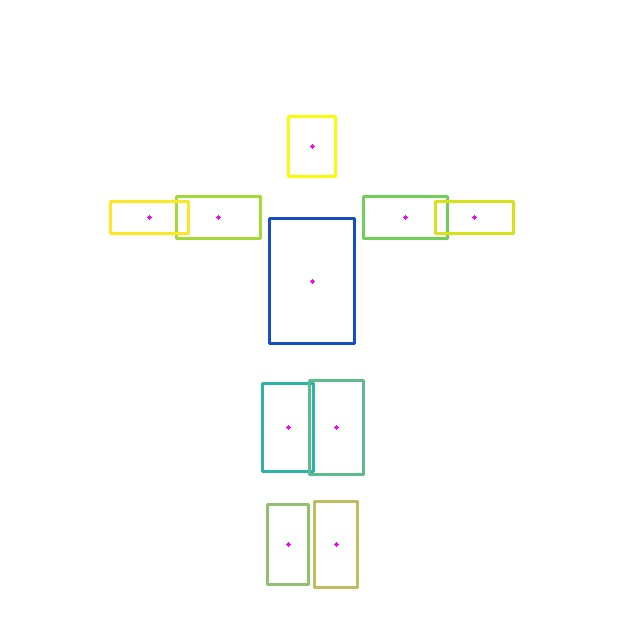
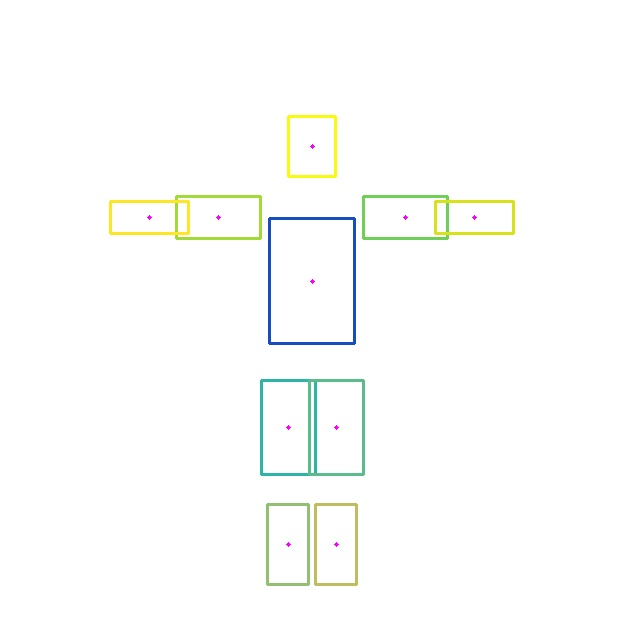
update

Changed region(s): [[0.3958, 0.5785, 0.5176, 0.7612], [0.4872, 0.7917, 0.5785, 0.9439]]

diff --git a/visualize_contour_on_pose.py b/visualize_contour_on_pose.py
@@ -61,19 +61,34 @@ def _get_midpoints(infile, densepose_idx, keypoints):
     midpoints['Head'] = np.array([head_centroid_x, head_centroid_y])
 
     # torso midpoint
-    midpoints['Torso'] = (keypoints['Neck'] + keypoints['MidHip']) / 2
+    if np.all(keypoints['Neck'] != 0) and np.all(keypoints['MidHip'] != 0):
+        midpoints['Torso'] = (keypoints['Neck'] + keypoints['MidHip']) / 2
 
     # upper limbs
-    midpoints['RUpperArm'] = (keypoints['RShoulder'] + keypoints['RElbow']) / 2
-    midpoints['RLowerArm'] = (keypoints['RElbow'] + keypoints['RWrist']) / 2
-    midpoints['LUpperArm'] = (keypoints['LShoulder'] + keypoints['LElbow']) / 2
-    midpoints['LLowerArm'] = (keypoints['LElbow'] + keypoints['LWrist']) / 2
+    if np.all(keypoints['RShoulder'] != 0) and np.all(keypoints['RElbow'] != 0):
+       midpoints['RUpperArm'] = (keypoints['RShoulder'] + keypoints['RElbow']) / 2
+
+    if np.all(keypoints['RElbow'] != 0) and np.all(keypoints['RWrist'] != 0):
+        midpoints['RLowerArm'] = (keypoints['RElbow'] + keypoints['RWrist']) / 2
+
+    if np.all(keypoints['LShoulder'] != 0) and np.all(keypoints['LElbow'] != 0):
+        midpoints['LUpperArm'] = (keypoints['LShoulder'] + keypoints['LElbow']) / 2
+
+    if np.all(keypoints['LElbow'] != 0) and np.all(keypoints['LWrist'] != 0):
+        midpoints['LLowerArm'] = (keypoints['LElbow'] + keypoints['LWrist']) / 2
 
     # lower limbs
-    midpoints['RThigh'] = (keypoints['RHip'] + keypoints['RKnee']) / 2
-    midpoints['RCalf'] = (keypoints['RKnee'] + keypoints['RAnkle']) / 2
-    midpoints['LThigh'] = (keypoints['LHip'] + keypoints['LKnee']) / 2
-    midpoints['LCalf'] = (keypoints['LKnee'] + keypoints['LAnkle']) / 2
+    if np.all(keypoints['RHip'] != 0) and np.all(keypoints['RKnee'] != 0):
+        midpoints['RThigh'] = (keypoints['RHip'] + keypoints['RKnee']) / 2
+
+    if np.all(keypoints['RKnee'] != 0) and np.all(keypoints['RAnkle'] != 0):
+        midpoints['RCalf'] = (keypoints['RKnee'] + keypoints['RAnkle']) / 2
+
+    if np.all(keypoints['LHip'] != 0) and np.all(keypoints['LKnee'] != 0):
+        midpoints['LThigh'] = (keypoints['LHip'] + keypoints['LKnee']) / 2
+
+    if np.all(keypoints['LKnee'] != 0) and np.all(keypoints['LAnkle'] != 0):
+        midpoints['LCalf'] = (keypoints['LKnee'] + keypoints['LAnkle']) / 2
 
     return midpoints
 
@@ -136,78 +151,88 @@ def _draw_norm_segm(image, midpoints, rotated_angles, dict_norm_segm):
     scaler = 1 / dict_norm_segm['scaler']
 
     # head
-    rect = ((midpoints['Head'][0], midpoints['Head'][1]),
-            (dict_norm_segm['Head_w'] * scaler, dict_norm_segm['Head_h'] * scaler),
-            rotated_angles['Head'])
-    box = cv2.boxPoints(rect)  # cv2.boxPoints(rect) for OpenCV 3.x
-    box = np.int0(box)
-    cv2.drawContours(image, [box], 0, color=COARSE_TO_COLOR['Head'], thickness=thickness)
+    if 'Head' in midpoints.keys():
+        rect = ((midpoints['Head'][0], midpoints['Head'][1]),
+                (dict_norm_segm['Head_w'] * scaler, dict_norm_segm['Head_h'] * scaler),
+                rotated_angles['Head'])
+        box = cv2.boxPoints(rect)  # cv2.boxPoints(rect) for OpenCV 3.x
+        box = np.int0(box)
+        cv2.drawContours(image, [box], 0, color=COARSE_TO_COLOR['Head'], thickness=thickness)
 
     # torso
-    rect = ((midpoints['Torso'][0], midpoints['Torso'][1]),
-            (dict_norm_segm['Torso_w'] * scaler, dict_norm_segm['Torso_h'] * scaler),
-            rotated_angles['Torso'])
-    box = cv2.boxPoints(rect)  # cv2.boxPoints(rect) for OpenCV 3.x
-    box = np.int0(box)
-    cv2.drawContours(image, [box], 0, color=COARSE_TO_COLOR['Torso'], thickness=thickness)
+    if 'Torso' in midpoints.keys():
+        rect = ((midpoints['Torso'][0], midpoints['Torso'][1]),
+                (dict_norm_segm['Torso_w'] * scaler, dict_norm_segm['Torso_h'] * scaler),
+                rotated_angles['Torso'])
+        box = cv2.boxPoints(rect)  # cv2.boxPoints(rect) for OpenCV 3.x
+        box = np.int0(box)
+        cv2.drawContours(image, [box], 0, color=COARSE_TO_COLOR['Torso'], thickness=thickness)
 
     # upper limbs
-    rect = ((midpoints['RUpperArm'][0], midpoints['RUpperArm'][1]),
-            (dict_norm_segm['RUpperArm_w'] * scaler, dict_norm_segm['RUpperArm_h'] * scaler),
-            rotated_angles['RUpperArm'])
-    box = cv2.boxPoints(rect)  # cv2.boxPoints(rect) for OpenCV 3.x
-    box = np.int0(box)
-    cv2.drawContours(image, [box], 0, color=COARSE_TO_COLOR['RUpperArm'], thickness=thickness)
+    if 'RUpperArm' in midpoints.keys():
+        rect = ((midpoints['RUpperArm'][0], midpoints['RUpperArm'][1]),
+                (dict_norm_segm['RUpperArm_w'] * scaler, dict_norm_segm['RUpperArm_h'] * scaler),
+                rotated_angles['RUpperArm'])
+        box = cv2.boxPoints(rect)  # cv2.boxPoints(rect) for OpenCV 3.x
+        box = np.int0(box)
+        cv2.drawContours(image, [box], 0, color=COARSE_TO_COLOR['RUpperArm'], thickness=thickness)
 
-    rect = ((midpoints['RLowerArm'][0], midpoints['RLowerArm'][1]),
-            (dict_norm_segm['RLowerArm_w'] * scaler, dict_norm_segm['RLowerArm_h'] * scaler),
-            rotated_angles['RLowerArm'])
-    box = cv2.boxPoints(rect)  # cv2.boxPoints(rect) for OpenCV 3.x
-    box = np.int0(box)
-    cv2.drawContours(image, [box], 0, color=COARSE_TO_COLOR['RLowerArm'], thickness=thickness)
+    if 'RLowerArm' in midpoints.keys():
+        rect = ((midpoints['RLowerArm'][0], midpoints['RLowerArm'][1]),
+                (dict_norm_segm['RLowerArm_w'] * scaler, dict_norm_segm['RLowerArm_h'] * scaler),
+                rotated_angles['RLowerArm'])
+        box = cv2.boxPoints(rect)  # cv2.boxPoints(rect) for OpenCV 3.x
+        box = np.int0(box)
+        cv2.drawContours(image, [box], 0, color=COARSE_TO_COLOR['RLowerArm'], thickness=thickness)
 
-    rect = ((midpoints['LUpperArm'][0], midpoints['LUpperArm'][1]),
-            (dict_norm_segm['LUpperArm_w'] * scaler, dict_norm_segm['LUpperArm_h'] * scaler),
-            rotated_angles['LUpperArm'])
-    box = cv2.boxPoints(rect)  # cv2.boxPoints(rect) for OpenCV 3.x
-    box = np.int0(box)
-    cv2.drawContours(image, [box], 0, color=COARSE_TO_COLOR['LUpperArm'], thickness=thickness)
+    if 'LUpperArm' in midpoints.keys():
+        rect = ((midpoints['LUpperArm'][0], midpoints['LUpperArm'][1]),
+                (dict_norm_segm['LUpperArm_w'] * scaler, dict_norm_segm['LUpperArm_h'] * scaler),
+                rotated_angles['LUpperArm'])
+        box = cv2.boxPoints(rect)  # cv2.boxPoints(rect) for OpenCV 3.x
+        box = np.int0(box)
+        cv2.drawContours(image, [box], 0, color=COARSE_TO_COLOR['LUpperArm'], thickness=thickness)
 
-    rect = ((midpoints['LLowerArm'][0], midpoints['LLowerArm'][1]),
-            (dict_norm_segm['LLowerArm_w'] * scaler, dict_norm_segm['LLowerArm_h'] * scaler),
-            rotated_angles['LLowerArm'])
-    box = cv2.boxPoints(rect)  # cv2.boxPoints(rect) for OpenCV 3.x
-    box = np.int0(box)
-    cv2.drawContours(image, [box], 0, color=COARSE_TO_COLOR['LLowerArm'], thickness=thickness)
+    if 'LLowerArm' in midpoints.keys():
+        rect = ((midpoints['LLowerArm'][0], midpoints['LLowerArm'][1]),
+                (dict_norm_segm['LLowerArm_w'] * scaler, dict_norm_segm['LLowerArm_h'] * scaler),
+                rotated_angles['LLowerArm'])
+        box = cv2.boxPoints(rect)  # cv2.boxPoints(rect) for OpenCV 3.x
+        box = np.int0(box)
+        cv2.drawContours(image, [box], 0, color=COARSE_TO_COLOR['LLowerArm'], thickness=thickness)
 
     # lower limbs
-    rect = ((midpoints['RThigh'][0], midpoints['RThigh'][1]),
-            (dict_norm_segm['RThigh_w'] * scaler, dict_norm_segm['RThigh_h'] * scaler),
-            rotated_angles['RThigh'])
-    box = cv2.boxPoints(rect)  # cv2.boxPoints(rect) for OpenCV 3.x
-    box = np.int0(box)
-    cv2.drawContours(image, [box], 0, color=COARSE_TO_COLOR['RThigh'], thickness=thickness)
+    if 'RThigh' in midpoints.keys():
+        rect = ((midpoints['RThigh'][0], midpoints['RThigh'][1]),
+                (dict_norm_segm['RThigh_w'] * scaler, dict_norm_segm['RThigh_h'] * scaler),
+                rotated_angles['RThigh'])
+        box = cv2.boxPoints(rect)  # cv2.boxPoints(rect) for OpenCV 3.x
+        box = np.int0(box)
+        cv2.drawContours(image, [box], 0, color=COARSE_TO_COLOR['RThigh'], thickness=thickness)
 
-    rect = ((midpoints['RCalf'][0], midpoints['RCalf'][1]),
-            (dict_norm_segm['RCalf_w'] * scaler, dict_norm_segm['RCalf_h'] * scaler),
-            rotated_angles['RCalf'])
-    box = cv2.boxPoints(rect)  # cv2.boxPoints(rect) for OpenCV 3.x
-    box = np.int0(box)
-    cv2.drawContours(image, [box], 0, color=COARSE_TO_COLOR['RCalf'], thickness=thickness)
+    if 'RCalf' in midpoints.keys():
+        rect = ((midpoints['RCalf'][0], midpoints['RCalf'][1]),
+                (dict_norm_segm['RCalf_w'] * scaler, dict_norm_segm['RCalf_h'] * scaler),
+                rotated_angles['RCalf'])
+        box = cv2.boxPoints(rect)  # cv2.boxPoints(rect) for OpenCV 3.x
+        box = np.int0(box)
+        cv2.drawContours(image, [box], 0, color=COARSE_TO_COLOR['RCalf'], thickness=thickness)
 
-    rect = ((midpoints['LThigh'][0], midpoints['LThigh'][1]),
-            (dict_norm_segm['LThigh_w'] * scaler, dict_norm_segm['LThigh_h'] * scaler),
-            rotated_angles['LThigh'])
-    box = cv2.boxPoints(rect)  # cv2.boxPoints(rect) for OpenCV 3.x
-    box = np.int0(box)
-    cv2.drawContours(image, [box], 0, color=COARSE_TO_COLOR['LThigh'], thickness=thickness)
+    if 'LThigh' in midpoints.keys():
+        rect = ((midpoints['LThigh'][0], midpoints['LThigh'][1]),
+                (dict_norm_segm['LThigh_w'] * scaler, dict_norm_segm['LThigh_h'] * scaler),
+                rotated_angles['LThigh'])
+        box = cv2.boxPoints(rect)  # cv2.boxPoints(rect) for OpenCV 3.x
+        box = np.int0(box)
+        cv2.drawContours(image, [box], 0, color=COARSE_TO_COLOR['LThigh'], thickness=thickness)
 
-    rect = ((midpoints['LCalf'][0], midpoints['LCalf'][1]),
-            (dict_norm_segm['LCalf_w'] * scaler, dict_norm_segm['LCalf_h'] * scaler),
-            rotated_angles['LCalf'])
-    box = cv2.boxPoints(rect)  # cv2.boxPoints(rect) for OpenCV 3.x
-    box = np.int0(box)
-    cv2.drawContours(image, [box], 0, color=COARSE_TO_COLOR['LCalf'], thickness=thickness)
+    if 'LCalf' in midpoints.keys():
+        rect = ((midpoints['LCalf'][0], midpoints['LCalf'][1]),
+                (dict_norm_segm['LCalf_w'] * scaler, dict_norm_segm['LCalf_h'] * scaler),
+                rotated_angles['LCalf'])
+        box = cv2.boxPoints(rect)  # cv2.boxPoints(rect) for OpenCV 3.x
+        box = np.int0(box)
+        cv2.drawContours(image, [box], 0, color=COARSE_TO_COLOR['LCalf'], thickness=thickness)
 
 
 def visualize(infile, openpose_idx, densepose_idx):
@@ -232,13 +257,13 @@ def visualize(infile, openpose_idx, densepose_idx):
 
     # step 3.1: load the data of contour
     df_contour = pd.read_csv(fname_contour, index_col=0).astype('float32')
-    # dict_norm_segm = df_contour.loc['impressionism']
-    dict_norm_segm = df_contour.loc['Michelangelo']
+    artist = infile.split('/')[2]
+    dict_avg_contour_segm = df_contour.loc[artist]
 
     df_norm_segm = pd.read_csv(fname_norm_segm, index_col=0)
     index_name = generate_index_name(infile, openpose_idx)
-    dict_norm_segm['scaler'] = df_norm_segm.loc[index_name]['scaler']
-    print(dict_norm_segm)
+    dict_avg_contour_segm['scaler'] = df_norm_segm.loc[index_name]['scaler']
+    print(dict_avg_contour_segm)
 
     # step 3.2: draw the norm_segm on the original image
     # load the original image
@@ -246,7 +271,7 @@ def visualize(infile, openpose_idx, densepose_idx):
     im_gray = cv2.cvtColor(image, cv2.COLOR_BGR2GRAY)
     im_gray = np.tile(im_gray[:, :, np.newaxis], [1, 1, 3])
     # draw norm_segm
-    _draw_norm_segm(im_gray, midpoints, rotated_angles, dict_norm_segm)
+    _draw_norm_segm(im_gray, midpoints, rotated_angles, dict_avg_contour_segm)
 
     # test
     # cv2.circle(im_gray, (int(midpoints['Torso'][0]), int(midpoints['Torso'][1])), radius=10, color=(0, 255, 0), thickness=-1)
@@ -287,7 +312,7 @@ def generate_index_name(infile, openpose_idx):
 if __name__ == '__main__':
 
     # settings
-    thickness = 5
+    thickness = 3
 
     # classical
     # python visualize_contour_on_pose.py --input datasets/classical/Michelangelo/1304.jpg

diff --git a/visualize_rect_segm.py b/visualize_rect_segm.py
@@ -107,9 +107,8 @@ def _is_valid(keypoints):
 
     # filter the main keypoints by score > 0
     filtered_keypoints = [key for key, value in keypoints.items() if key in main_keypoints and value[2] > 0]
-    print('Number of valid keypoints (must be equal to 7):', len(filtered_keypoints))
-
-    if len(filtered_keypoints) != 7:
+    if len(filtered_keypoints) < 6:
+        print('Number of valid keypoints (must be >= 6):', len(filtered_keypoints))
         return False
     else:
         return True
@@ -262,7 +261,8 @@ def _calc_angle(point1, center, point2):
 
         return rad, deg
 
-    except:
+    except Exception as ex:
+        print(ex)
         return 0, 0
 
 
@@ -453,15 +453,17 @@ def _draw_one_segm_bbox(image, segm_id, segm_xy):
     global bbox_segm_dict
 
     # remove outliers
-    print('Before removing outliers:', len(segm_xy))
+    # print('Before removing outliers:', len(segm_xy))
     segm_xy = np.array(_remove_outlier(segm_xy=segm_xy)).astype(int)
-    print('After removing outliers:', len(segm_xy))
+    # print('After removing outliers:', len(segm_xy))
 
     # get the minimum bounding rectangle of segm_xy
     try:
         rect_xy = _get_min_bounding_rect(segm_xy)
-    except:
+    except Exception as ex:
+        print(ex)
         return
+
     cv2.fillPoly(image, [rect_xy], COARSE_TO_COLOR[segm_id])
 
     dist1 = _euclidian(rect_xy[0], rect_xy[1])
@@ -575,12 +577,9 @@ def _draw_one_norm_segm(image, segm_id, norm_midpoint):
         half_h = temp_segm_dict[segm_id]['half_h']
         half_w = temp_segm_dict[segm_id]['half_w']
 
-    # if the segment does not exist on both left and right side, return!!!
-    if half_h < 1 or half_w < 1:
-        return
-
-    norm_segm_dict[segm_id + '_w'] = int(half_w * 2)
-    norm_segm_dict[segm_id + '_h'] = int(half_h * 2)
+    # if the segment does not exist on both left and right side, assign 0 as default
+    norm_segm_dict[segm_id + '_w'] = int(half_w * 2) if half_w >= 1 and half_h >= 1 else 0
+    norm_segm_dict[segm_id + '_h'] = int(half_h * 2) if half_w >= 1 and half_h >= 1 else 0
 
     img_bg = np.empty((int(half_h*2), int(half_w*2), 4), np.uint8)
     img_bg.fill(255)
@@ -598,7 +597,10 @@ def _draw_one_norm_segm(image, segm_id, norm_midpoint):
     # draw the normalized segment
     if img_bg.shape == image[min_y:max_y, min_x:max_x, :].shape:
         added_image = cv2.addWeighted(image[min_y:max_y, min_x:max_x, :], 0.1, img_bg, 0.9, 0)
-        image[min_y:max_y, min_x:max_x, :] = added_image
+        try:
+            image[min_y:max_y, min_x:max_x, :] = added_image
+        except TypeError as ex:
+            print(ex)
 
     # draw the normalized midpoint
     cv2.circle(image, tuple(norm_midpoint), radius=2, color=(255, 0, 255), thickness=-1)
@@ -783,18 +785,21 @@ def visualize(infile, score_cutoff):
     # boxes_xywh: tensor -> numpy array
     try:
         people_box_xywh = people_box_xywh.numpy()
-    except AttributeError:
+    except AttributeError as ex:
+        print(ex)
         return
 
     # load keypoints
     file_keypoints = os.path.join(openpose_keypoints_dir, '{}_keypoints.npy'.format(infile[infile.find('/') + 1:infile.rfind('.')]))
     try:
         people_keypoints = np.load(file_keypoints, allow_pickle='TRUE').item()['keypoints']
-    except FileNotFoundError:
+    except FileNotFoundError as ex:
+        print(ex)
         return
 
-    print('size of keypoints:', len(people_keypoints))
-    print('size of densepose:', len(people_densepose))
+    if len(people_keypoints) < 1 or len(people_densepose) < 1:
+        print('Size of keypoints:', len(people_keypoints), 'Size of densepose:', len(people_densepose))
+        return
 
     matched_densepose, matched_box_xywh, matched_keypoints = _match(people_densepose, people_box_xywh, people_keypoints)
 

diff --git a/visualize_avg_segm.py b/visualize_avg_segm.py
@@ -48,32 +48,32 @@ def _calc_avg_contour(df_norm, index_name):
     dict_avg_contour = {}
 
     # head
-    dict_avg_contour['Head_w'] = int(df_norm['Head_w'].mean())
-    dict_avg_contour['Head_h'] = int(df_norm['Head_h'].mean())
+    dict_avg_contour['Head_w'] = int(df_norm[df_norm['Head_w'] > 0]['Head_w'].mean())
+    dict_avg_contour['Head_h'] = int(df_norm[df_norm['Head_h'] > 0]['Head_h'].mean())
 
     # torso
-    dict_avg_contour['Torso_w'] = int(df_norm['Torso_w'].mean())
-    dict_avg_contour['Torso_h'] = int(df_norm['Torso_h'].mean())
+    dict_avg_contour['Torso_w'] = int(df_norm[df_norm['Torso_w'] > 0]['Torso_w'].mean())
+    dict_avg_contour['Torso_h'] = int(df_norm[df_norm['Torso_h'] > 0]['Torso_h'].mean())
 
     # upper limbs
-    dict_avg_contour['RUpperArm_w'] = int(df_norm['RUpperArm_w'].mean())
-    dict_avg_contour['RUpperArm_h'] = int(df_norm['RUpperArm_h'].mean())
-    dict_avg_contour['RLowerArm_w'] = int(df_norm['RLowerArm_w'].mean())
-    dict_avg_contour['RLowerArm_h'] = int(df_norm['RLowerArm_h'].mean())
-    dict_avg_contour['LUpperArm_w'] = int(df_norm['LUpperArm_w'].mean())
-    dict_avg_contour['LUpperArm_h'] = int(df_norm['LUpperArm_h'].mean())
-    dict_avg_contour['LLowerArm_w'] = int(df_norm['LLowerArm_w'].mean())
-    dict_avg_contour['LLowerArm_h'] = int(df_norm['LLowerArm_h'].mean())
+    dict_avg_contour['RUpperArm_w'] = int(df_norm[df_norm['RUpperArm_w'] > 0]['RUpperArm_w'].mean())
+    dict_avg_contour['RUpperArm_h'] = int(df_norm[df_norm['RUpperArm_h'] > 0]['RUpperArm_h'].mean())
+    dict_avg_contour['RLowerArm_w'] = int(df_norm[df_norm['RLowerArm_w'] > 0]['RLowerArm_w'].mean())
+    dict_avg_contour['RLowerArm_h'] = int(df_norm[df_norm['RLowerArm_h'] > 0]['RLowerArm_h'].mean())
+    dict_avg_contour['LUpperArm_w'] = int(df_norm[df_norm['LUpperArm_w'] > 0]['LUpperArm_w'].mean())
+    dict_avg_contour['LUpperArm_h'] = int(df_norm[df_norm['LUpperArm_h'] > 0]['LUpperArm_h'].mean())
+    dict_avg_contour['LLowerArm_w'] = int(df_norm[df_norm['LLowerArm_w'] > 0]['LLowerArm_w'].mean())
+    dict_avg_contour['LLowerArm_h'] = int(df_norm[df_norm['LLowerArm_h'] > 0]['LLowerArm_h'].mean())
 
     # lower limbs
-    dict_avg_contour['RThigh_w'] = int(df_norm['RThigh_w'].mean())
-    dict_avg_contour['RThigh_h'] = int(df_norm['RThigh_h'].mean())
-    dict_avg_contour['RCalf_w'] = int(df_norm['RCalf_w'].mean())
-    dict_avg_contour['RCalf_h'] = int(df_norm['RCalf_h'].mean())
-    dict_avg_contour['LThigh_w'] = int(df_norm['LThigh_w'].mean())
-    dict_avg_contour['LThigh_h'] = int(df_norm['LThigh_h'].mean())
-    dict_avg_contour['LCalf_w'] = int(df_norm['LCalf_w'].mean())
-    dict_avg_contour['LCalf_h'] = int(df_norm['LCalf_h'].mean())
+    dict_avg_contour['RThigh_w'] = int(df_norm[df_norm['RThigh_w'] > 0]['RThigh_w'].mean())
+    dict_avg_contour['RThigh_h'] = int(df_norm[df_norm['RThigh_h'] > 0]['RThigh_h'].mean())
+    dict_avg_contour['RCalf_w'] = int(df_norm[df_norm['RCalf_w'] > 0]['RCalf_w'].mean())
+    dict_avg_contour['RCalf_h'] = int(df_norm[df_norm['RCalf_h'] > 0]['RCalf_h'].mean())
+    dict_avg_contour['LThigh_w'] = int(df_norm[df_norm['LThigh_w'] > 0]['LThigh_w'].mean())
+    dict_avg_contour['LThigh_h'] = int(df_norm[df_norm['LThigh_h'] > 0]['LThigh_h'].mean())
+    dict_avg_contour['LCalf_w'] = int(df_norm[df_norm['LCalf_w'] > 0]['LCalf_w'].mean())
+    dict_avg_contour['LCalf_h'] = int(df_norm[df_norm['LCalf_h'] > 0]['LCalf_h'].mean())
 
     # save the average contour
     df = pd.DataFrame(data=dict_avg_contour, index=[index_name])

diff --git a/README.md b/README.md
@@ -145,3 +145,7 @@ The example output is listed as below for one painting of Michelangelo:
 <p float="left">
     <img src="pix/Michelangelo_1304_avg_contour.jpg" height="300" />
 </p>
+
+## References
+
+* https://github.com/facebookresearch/detectron2/pull/1974
